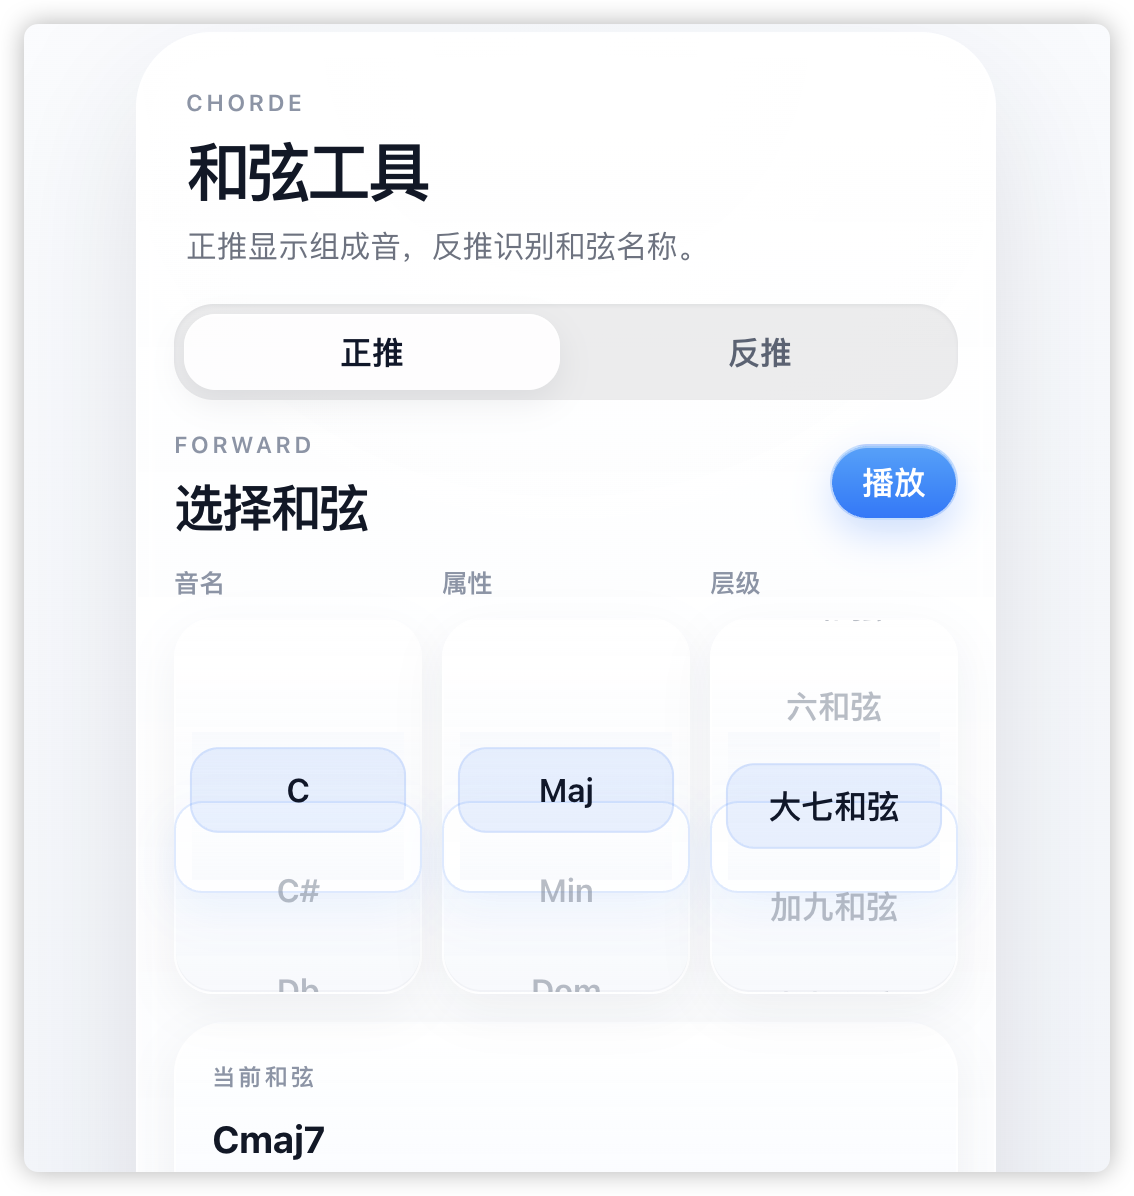
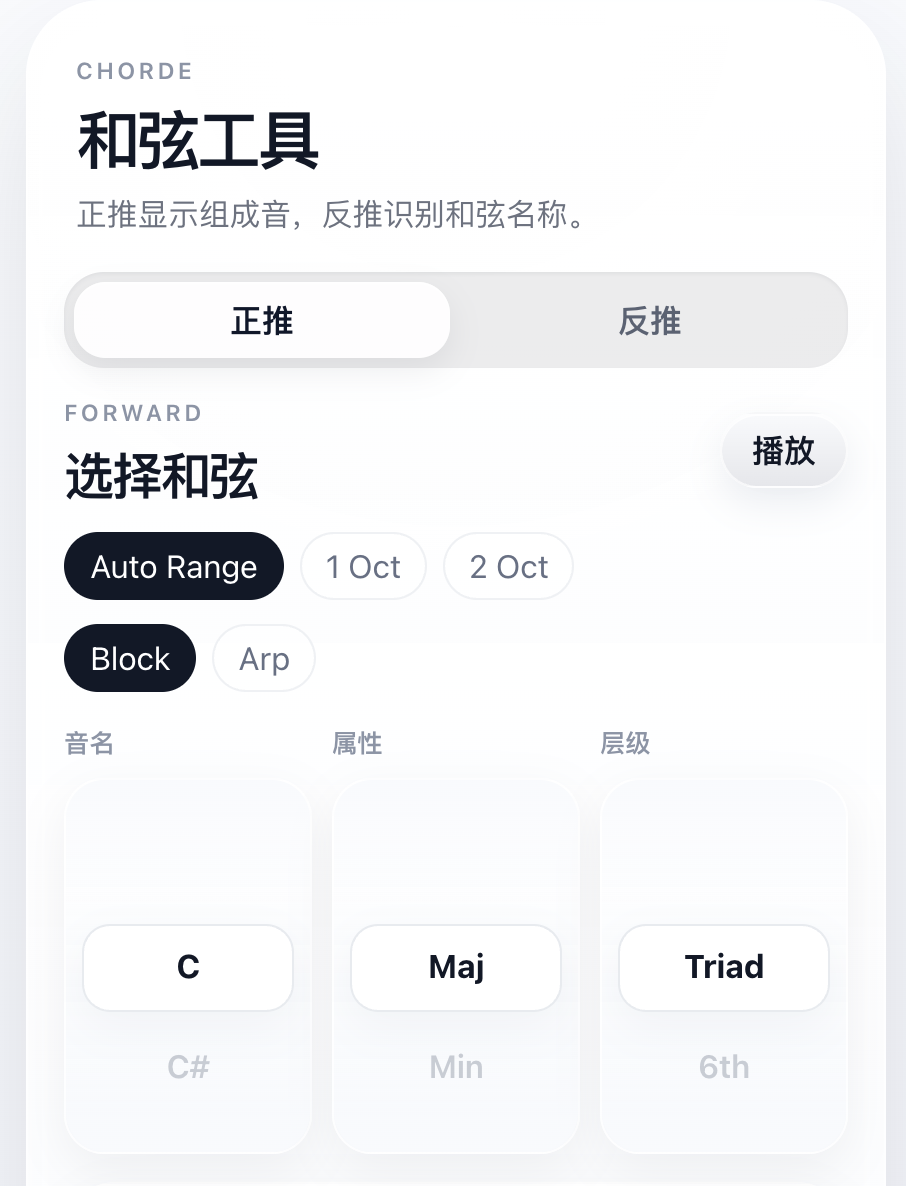
update: update readme and use new sample pics

diff --git a/README.md b/README.md
@@ -28,7 +28,7 @@ ChordE 是一个基于钢琴键盘的和弦工具，支持 **和弦正推** 与 
 
 反推模式进入时默认是空状态，方便你直接点击键盘输入音符进行识别。
 
-![反推模式空状态](docs/step-reverse-empty.jpeg)
+![反推模式空状态](docs/step-reverse-empty.png)
 
 ## 功能特性
 
